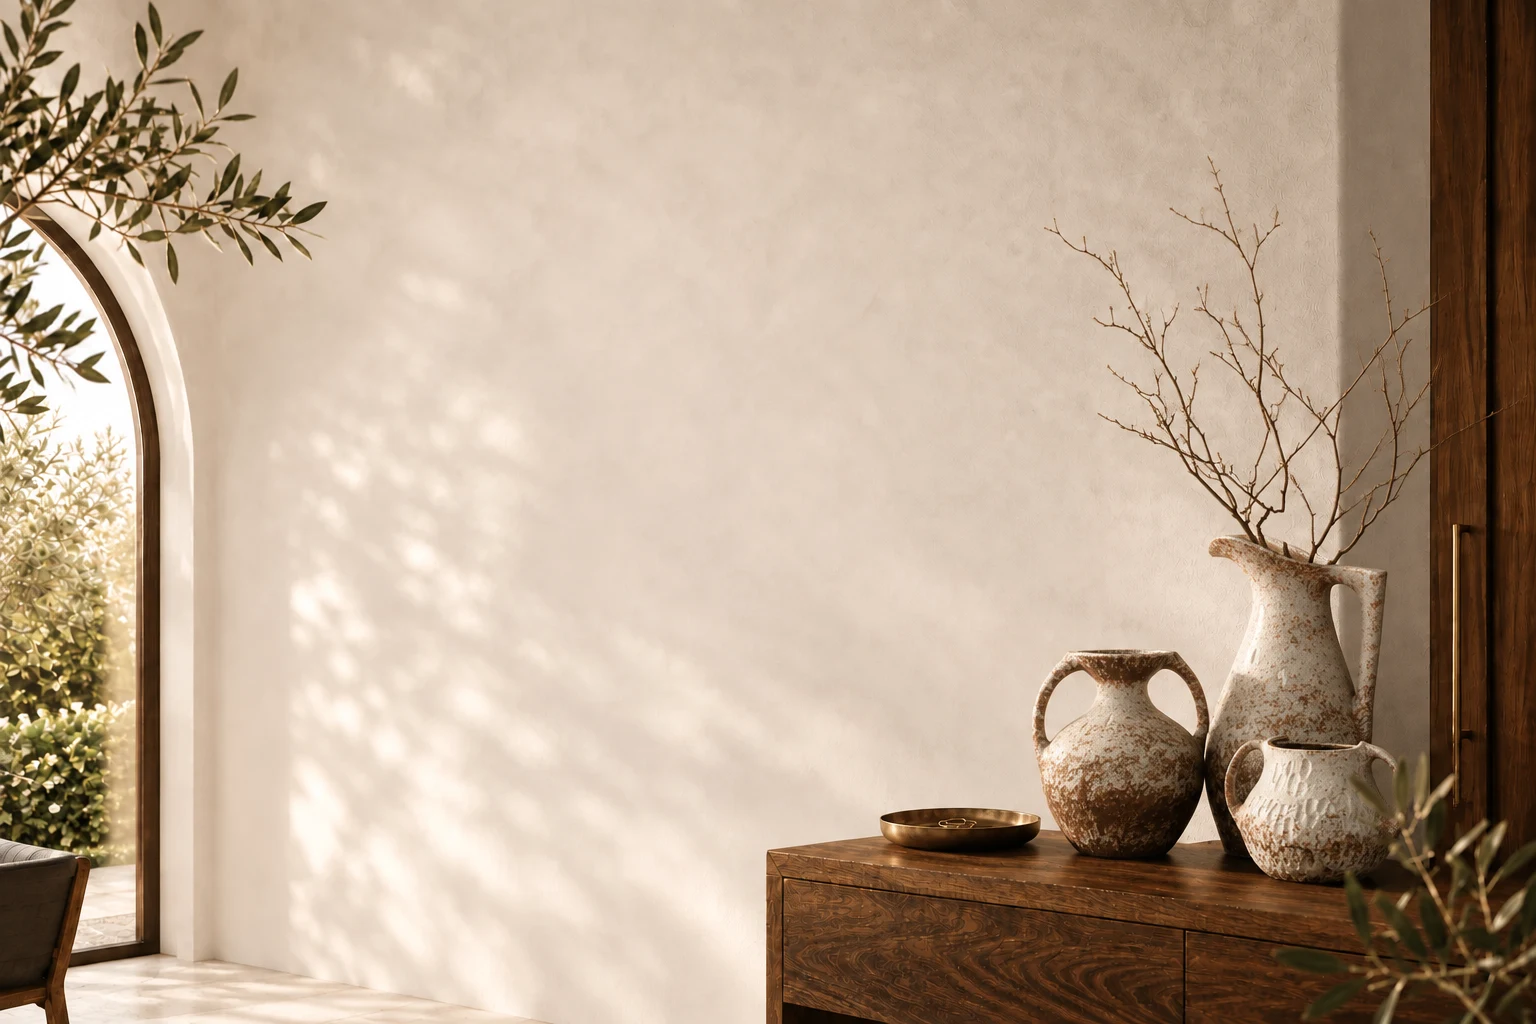
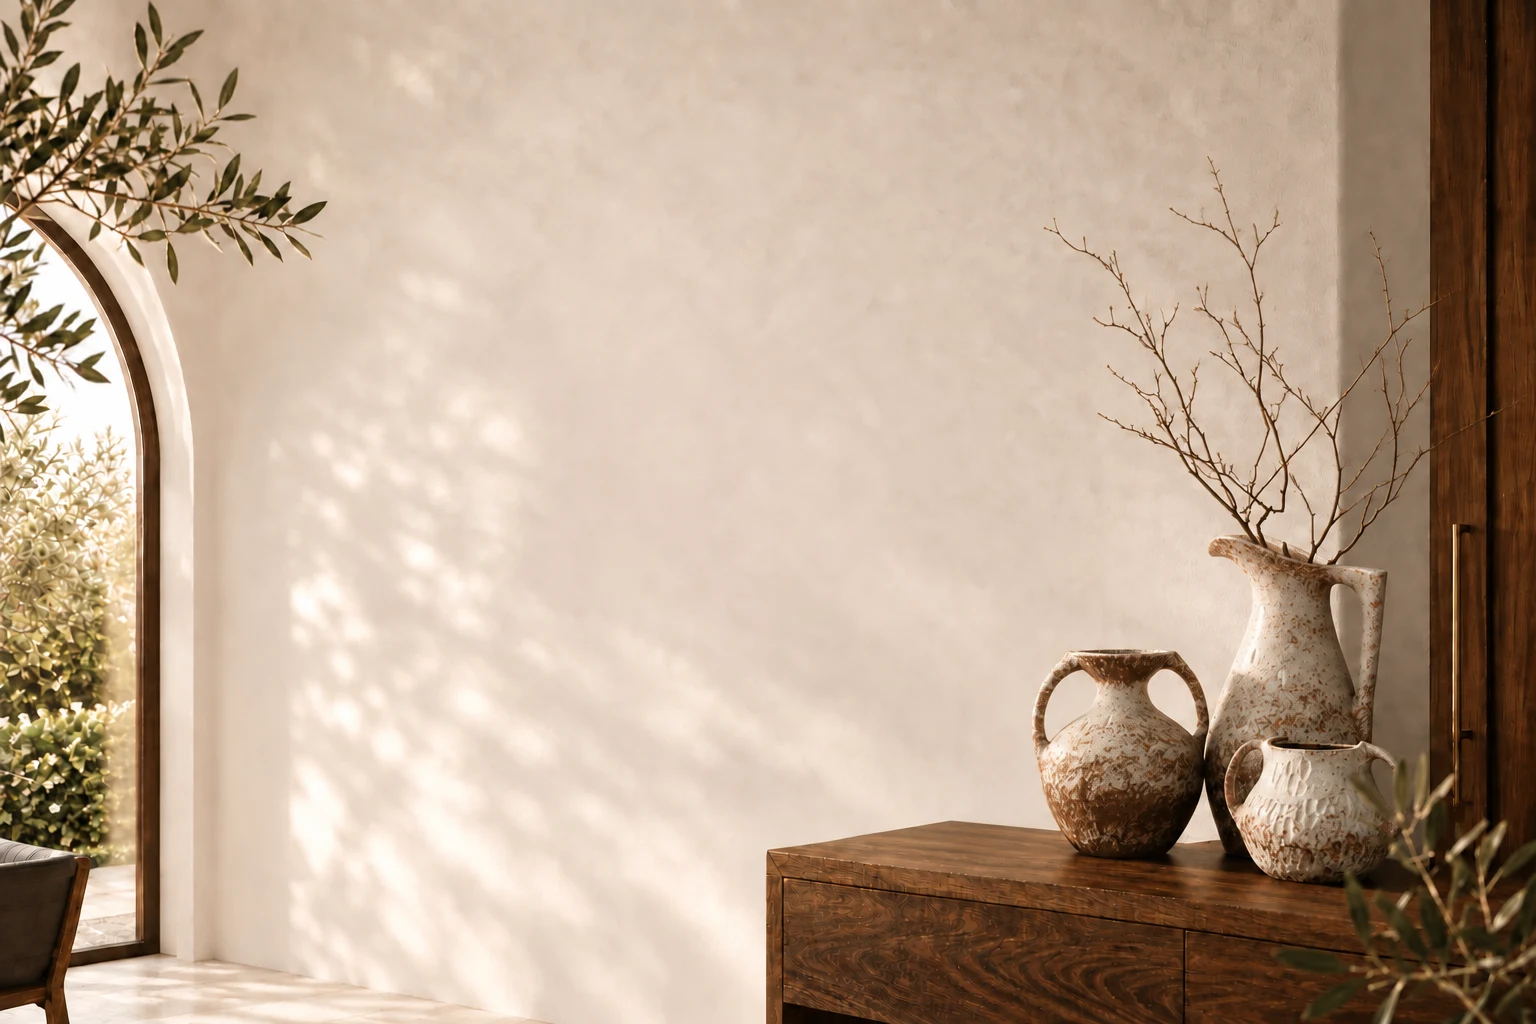
Remove copper tray from vase hero

diff --git a/docs/HERO_THREE_VASES.md b/docs/HERO_THREE_VASES.md
@@ -6,4 +6,10 @@ Full-resolution output: `output/welcome-three-vases.png`. Web asset: `public/ima
 
 ## Prompt
 
+Final refinement (copper tray removed, existing website copy preserved):
+
+Precise object removal. Remove ONLY the small copper/brass tray on the wooden console left of the three vases. Fill its footprint with continuous realistic matching wood grain. Preserve exactly the three staggered ivory/rust handled ceramic vases, decorative branches, entire room, sunlight, shadows, composition and1536x1024dimensions. No other changes. No text or logo added; website heading and text are separately rendered.
+
+Initial composition:
+
 Use case: precise-object-edit. Image1 edit target: original Louie Mae hero background. Image2 product reference: THREE distinct ivory/rust distressed ceramic vessels and decorative bare branches. Replace the single vase on console in image1 with ALL THREE exact reference vessels in a compact staggered grouping on RIGHT END of console: tallest single-handled sculptural pitcher at rear right, medium rounded two-handled vase left/front, smallest low two-handled textured pot front right. Preserve their distinctive outlines, handle shapes, white/rust mottled patina. Add delicate bare decorative branches in tall pitcher, rising along right margin. Product arrangement entire width approx360pixels spanning x1080..1440, tallest pitcher height approx250pixels with base y850; smaller vases height170 and120. Branches rise to y260 but MUST stay to RIGHT of x1120, not sweep across center. Remove original vase, move brass tray left on console if needed. Preserve architecture, console, olive branches, sunlit plaster and camera composition exactly. Large central wall x300..1080 must remain clear for web text. Photorealistic camera image, natural sunlight from left, accurate contact shadows and scale. Background only,1536x1024landscape,no text,no logos,no UI,no lamp shade.
